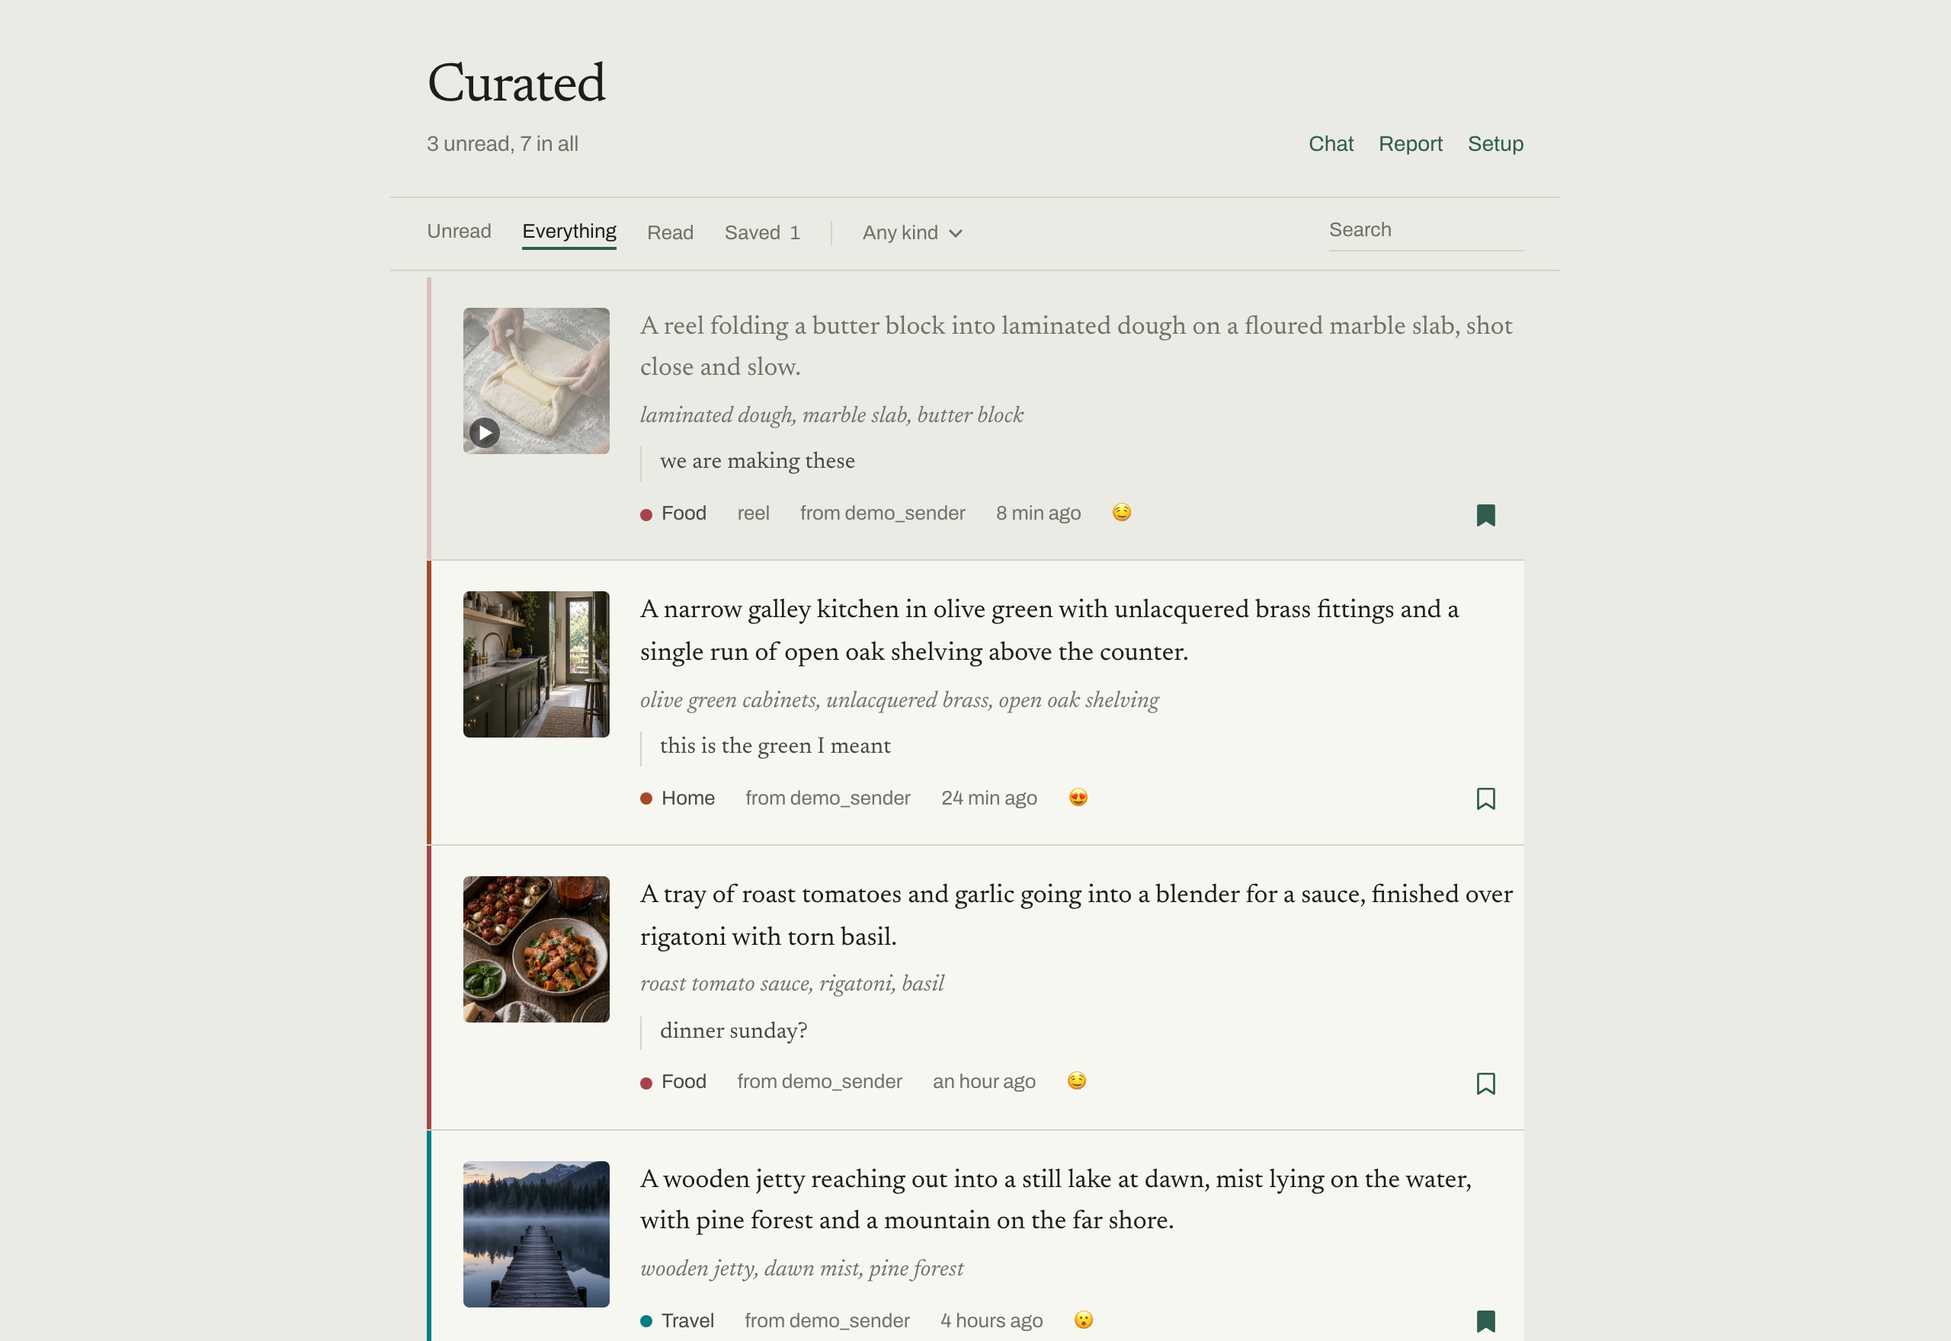
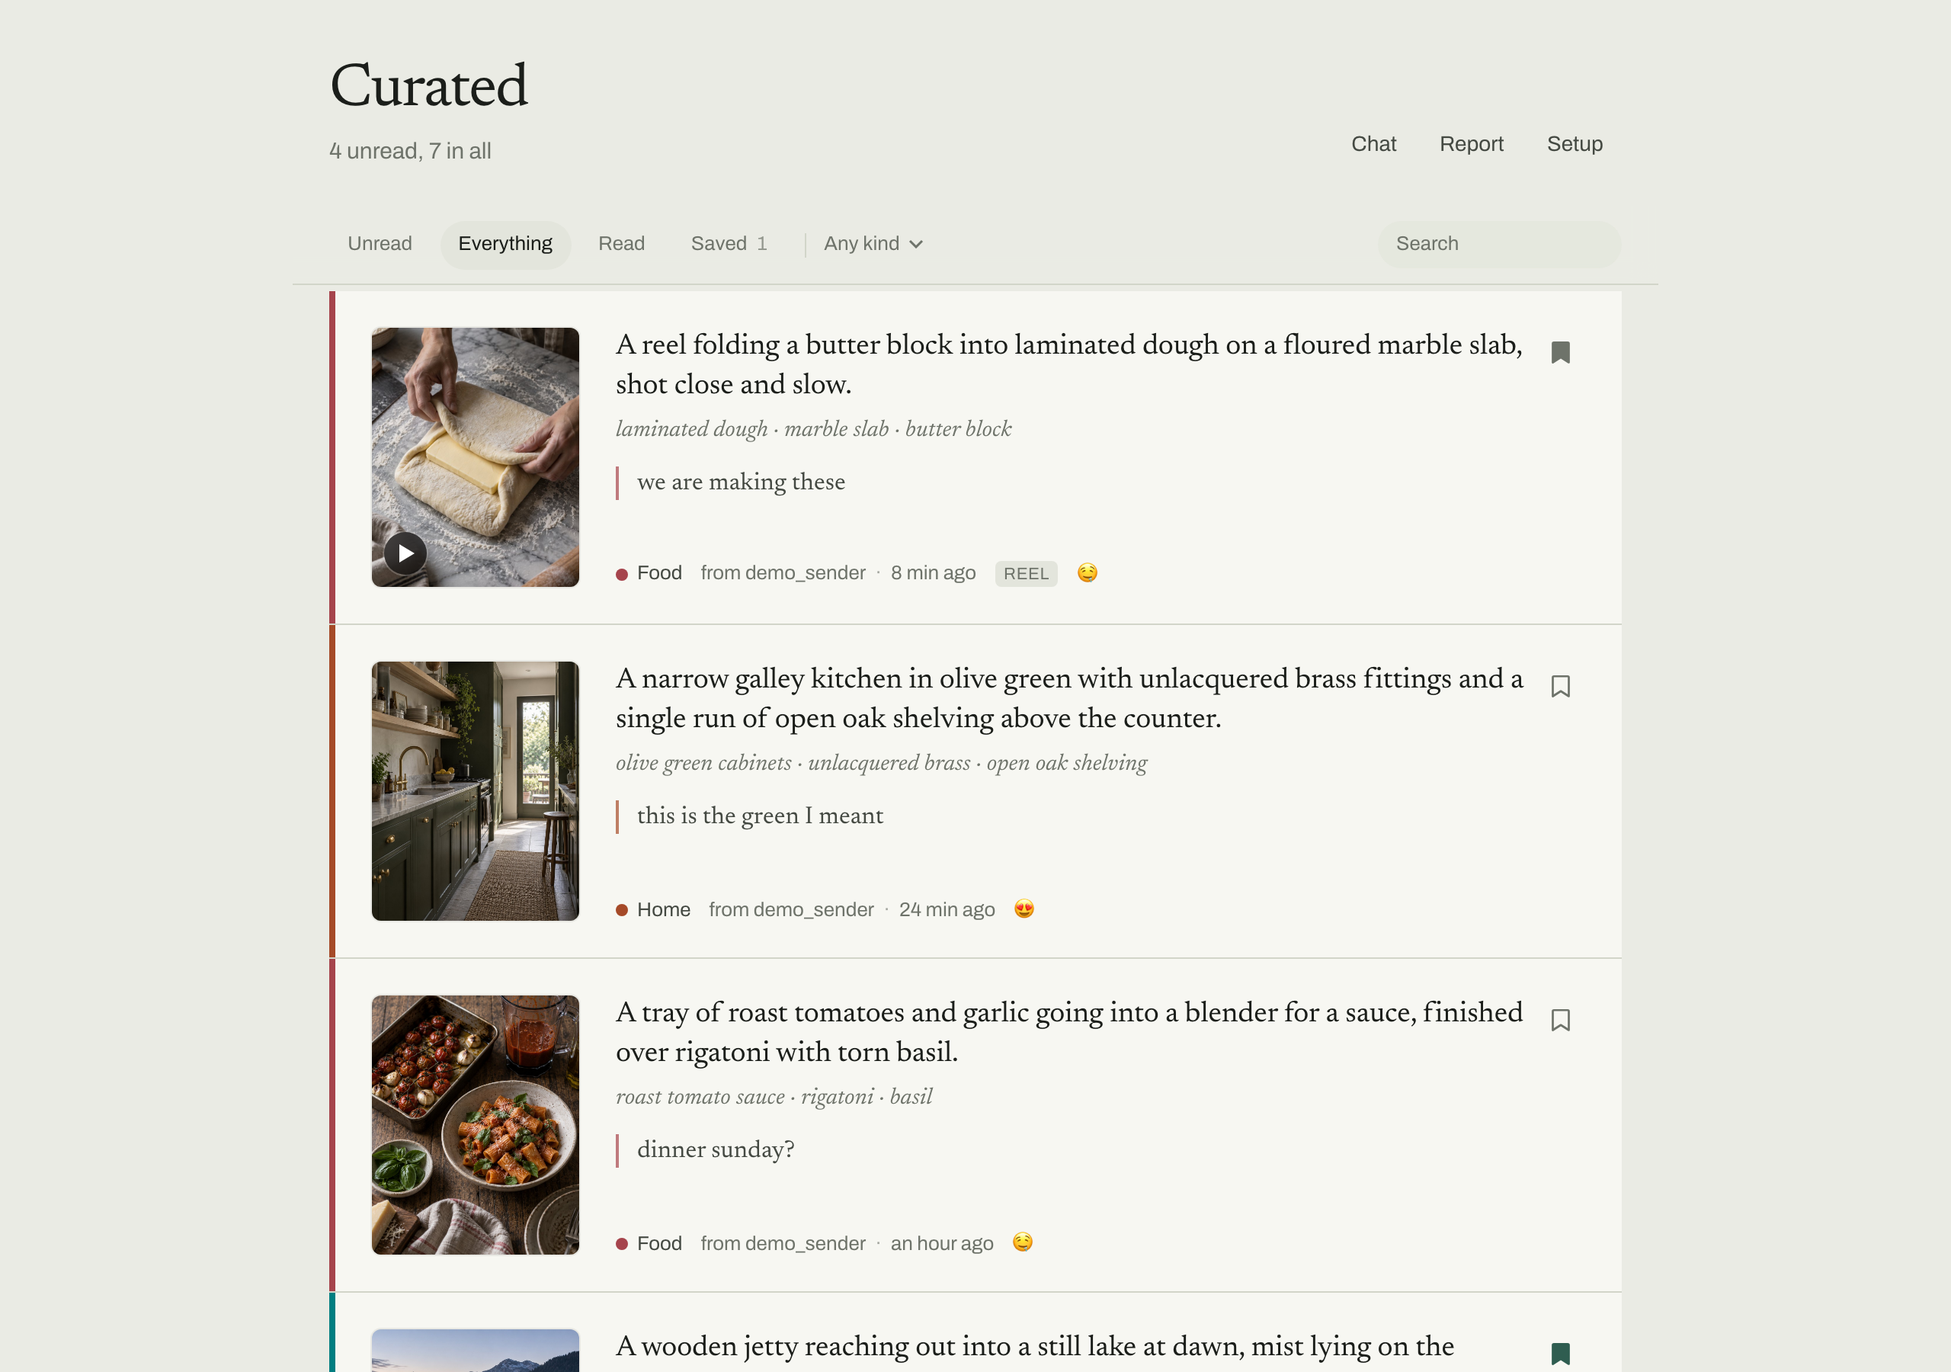
Give the pile a proper shape on both screens
A product about pictures showed them at 96px beside a wall of same-weight
text, in a column narrower than the pictures deserved. Now:

On a desktop the picture is the 4:5 portrait Instagram delivered, at
136px, beside a real hierarchy: the description as a 19px headline, the
things it names as a quieter italic line, the sender's words as a quote
whose rule takes the category's colour so it and the spine read as one,
and the facts on a single line at the foot aligned to the picture's
bottom edge. Saving is a quiet corner of the row. The column widened to
make room for all of that.

On a phone there was no room beside anything: a 17px serif in a 200px
column wrapped a two-sentence description to six lines and the foot to
three. So the row becomes a card - the picture full width on top, cropped
4:3, and the words underneath at full width, where the same description
is three lines. Saving sits on the picture's top corner in a dark pill,
where every photo app puts it, and the foot fits on one line.

The filter bar says which view you are in with a soft pill rather than an
underline, and the search is a field rather than a line that vanished on
a phone. Read still recedes, at 70% rather than 60%, because a full-width
picture at 60% read as still loading.

README screenshots regenerated to match.

🤖 Generated with [Claude Code](https://claude.com/claude-code)

diff --git a/src/components/PostRow.tsx b/src/components/PostRow.tsx
@@ -14,6 +14,21 @@ type Props = {
   onPreview: (post: PostView) => void;
 };
 
+/**
+ * One post in the pile.
+ *
+ * The picture is the point, so it is shown at a size you can actually see
+ * rather than as a thumbnail tucked beside the text. On a wide screen that is
+ * the 4:5 portrait Instagram gave it, beside the words; on a phone there is no
+ * room beside anything, so it becomes the top of a card and the words get the
+ * full width underneath - a description is then two lines, not six.
+ *
+ * The words are a hierarchy rather than a stack: the description is the
+ * headline, the things it names are a quieter line under it, the sender's own
+ * words are a quote carrying the category's colour, and the facts sit on one
+ * line at the foot. Saving lives in a corner - of the picture on a phone,
+ * of the row on a desktop - so the foot never has to wrap around it.
+ */
 export default function PostRow({
   post,
   describing = true,
@@ -24,7 +39,6 @@ export default function PostRow({
 
   const hue = isCategory(post.category) ? CATEGORY_HUE[post.category] : 220;
   const read = post.viewed;
-  // A reel gets a play badge on its thumbnail; both it and the summary open the post.
   const isVideo = post.mediaType === "reel" || post.mediaType === "tv";
 
   const run = async (kind: "save", action: () => Promise<void>) => {
@@ -36,103 +50,130 @@ export default function PostRow({
     }
   };
 
+  const headline = post.summary ?? post.caption?.trim() ?? "";
+  const label = `${isVideo ? "Watch" : "Look at"} this post: ${headline || post.shortcode}`;
+
   return (
     <article
       style={{ ["--hue" as string]: hue }}
-      className={`group relative flex gap-4 border-b border-line py-5 pl-5 pr-1 transition-colors duration-500 sm:gap-5 sm:pl-6 ${
+      className={`group relative flex flex-col gap-3.5 border-b border-line py-5 pl-5 pr-4 transition-colors duration-500 sm:flex-row sm:gap-6 sm:py-6 sm:pl-7 sm:pr-6 ${
         read ? "bg-transparent" : "bg-surface"
       }`}
     >
       <span
         aria-hidden
-        className={`spine absolute top-0 bottom-0 left-0 w-[3px] transition-opacity duration-500 ${
+        className={`spine absolute top-0 bottom-0 left-0 w-1 transition-opacity duration-500 ${
           read ? "opacity-25" : "opacity-100"
         }`}
       />
 
-      <Thumbnail post={post} read={read} isVideo={isVideo} onPreview={onPreview} />
+      <Thumbnail post={post} read={read} isVideo={isVideo} label={label} onPreview={onPreview} />
 
-      <div className="min-w-0 flex-1">
-        {post.summary ? (
-          <button
-            type="button"
-            onClick={() => onPreview(post)}
-            className={`block max-w-[62ch] text-left font-serif text-[17px] leading-relaxed hover:underline hover:decoration-line hover:underline-offset-4 ${
-              read ? "text-muted" : "text-ink"
-            }`}
-          >
-            {post.summary}
-          </button>
-        ) : (
-          // Nothing written about it yet, so the post's own caption stands in -
-          // clamped rather than cut mid-sentence, and in the caption's voice so
-          // it does not read as something we wrote.
-          <button
-            type="button"
-            onClick={() => onPreview(post)}
-            className={`line-clamp-4 max-w-[62ch] text-left font-serif text-[16px] leading-relaxed hover:underline hover:decoration-line hover:underline-offset-4 ${
-              read ? "text-muted" : "text-ink-soft"
-            }`}
-          >
-            {post.caption?.trim() || placeholderFor(post)}
-          </button>
-        )}
+      {/* A column as tall as the picture, so the facts at the foot line up
+          with its bottom edge instead of floating wherever the text ends. */}
+      <div className="flex min-w-0 flex-1 flex-col">
+        <div className="sm:pr-10">
+          {post.summary ? (
+            <button
+              type="button"
+              onClick={() => onPreview(post)}
+              className={`block max-w-[56ch] text-left font-serif text-[17px] leading-snug tracking-[-0.005em] hover:underline hover:decoration-line hover:underline-offset-4 sm:text-[19px] ${
+                read ? "text-muted" : "text-ink"
+              }`}
+            >
+              {post.summary}
+            </button>
+          ) : (
+            // Nothing written about it yet, so the post's own caption stands in -
+            // clamped rather than cut mid-sentence, and in the caption's voice so
+            // it does not read as something we wrote.
+            <button
+              type="button"
+              onClick={() => onPreview(post)}
+              className={`line-clamp-3 max-w-[56ch] text-left font-serif text-[16px] leading-snug hover:underline hover:decoration-line hover:underline-offset-4 sm:text-[17px] ${
+                read ? "text-muted" : "text-ink-soft"
+              }`}
+            >
+              {post.caption?.trim() || placeholderFor(post)}
+            </button>
+          )}
 
-        {post.items.length > 0 && (
-          <p className="mt-1.5 max-w-[62ch] font-serif text-[15px] italic text-muted">
-            {post.items.join(", ")}
-          </p>
-        )}
+          {post.items.length > 0 && (
+            <p className="mt-1.5 max-w-[56ch] font-serif text-[14px] italic leading-snug text-muted sm:text-[15px]">
+              {post.items.join(" · ")}
+            </p>
+          )}
 
-        {post.messageText && (
-          <p className="mt-2 max-w-[58ch] border-l border-line pl-3 font-serif text-[15px] text-ink-soft">
-            {post.messageText}
-          </p>
-        )}
+          {post.messageText && (
+            <p className="quote mt-3 max-w-[52ch] border-l-2 pl-3 font-serif text-[15px] leading-snug text-ink-soft sm:text-[16px]">
+              {post.messageText}
+            </p>
+          )}
+        </div>
 
-        <div className="mt-3 flex flex-wrap items-center gap-x-5 gap-y-2 text-[13px]">
+        <div className="mt-auto flex flex-wrap items-center gap-x-2.5 gap-y-1.5 pt-3 text-[13px] leading-none sm:gap-x-3 sm:pt-4">
           {describing && (
             <span className="flex items-center gap-1.5 text-ink-soft">
               <span aria-hidden className="dot h-2 w-2 rounded-full" />
               {post.category ?? statusLabel(post)}
             </span>
           )}
-          {post.mediaType === "reel" && <span className="text-muted">reel</span>}
           <span className="text-muted">
-            {post.senderUsername ? `from ${post.senderUsername}` : "shared with you"}
+            {post.senderUsername ? (
+              <>
+                <span className="hidden sm:inline">from </span>
+                {post.senderUsername}
+              </>
+            ) : (
+              "shared with you"
+            )}
+            <span aria-hidden className="mx-1.5 opacity-60">·</span>
+            <time>{relativeTime(post.sharedAt)}</time>
           </span>
-          <time className="text-muted">{relativeTime(post.sharedAt)}</time>
+          {post.mediaType === "reel" && (
+            <span className="rounded-sm bg-sunk px-1.5 py-[3px] text-[11px] uppercase tracking-wide text-muted">
+              reel
+            </span>
+          )}
           {post.reactedAt && (
-            <span title={`Reacted ${relativeTime(post.reactedAt)}`}>{post.reactionEmoji}</span>
+            <span className="text-[14px]" title={`Reacted ${relativeTime(post.reactedAt)}`}>
+              {post.reactionEmoji}
+            </span>
           )}
 
-          <div className="flex items-center pr-3 sm:ml-auto">
-            <button
-              type="button"
-              onClick={() => run("save", () => onToggleSaved(post.id, !post.saved))}
-              disabled={busy !== null}
-              aria-label={post.saved ? "Remove from saved" : "Save"}
-              aria-pressed={post.saved}
-              title={post.saved ? "Saved" : "Save"}
-              className="group flex items-center text-accent disabled:opacity-50"
-            >
-              <BookmarkIcon filled={post.saved} />
-            </button>
-          </div>
         </div>
 
         {post.reactionError && (
-          <p className="mt-2 max-w-[62ch] text-[13px] text-danger">
+          <p className="mt-2 max-w-[56ch] text-[13px] text-danger">
             Reaction did not send: {post.reactionError}
           </p>
         )}
 
         {post.analysisStatus === "error" && post.analysisError && (
-          <p className="mt-2 max-w-[62ch] text-[13px] text-danger">
+          <p className="mt-2 max-w-[56ch] text-[13px] text-danger">
             Could not describe this one: {post.analysisError}
           </p>
         )}
       </div>
+
+      {/* Saving, in a corner. On a phone that corner is the top of the
+          picture, where every photo app puts it, on a dark pill so it reads
+          over anything. On a desktop it is the corner of the row, quiet. */}
+      <button
+        type="button"
+        onClick={() => run("save", () => onToggleSaved(post.id, !post.saved))}
+        disabled={busy !== null}
+        aria-label={post.saved ? "Remove from saved" : "Save"}
+        aria-pressed={post.saved}
+        title={post.saved ? "Saved" : "Save"}
+        className={`absolute top-7 right-6 flex h-9 w-9 items-center justify-center rounded-full bg-black/45 text-white ring-1 ring-white/20 backdrop-blur-sm transition-colors sm:top-6 sm:right-6 sm:h-8 sm:w-8 sm:bg-transparent sm:ring-0 sm:backdrop-blur-none ${
+          post.saved
+            ? "sm:text-accent"
+            : "sm:text-muted sm:hover:bg-sunk sm:hover:text-accent"
+        } disabled:opacity-50`}
+      >
+        <BookmarkIcon filled={post.saved} />
+      </button>
     </article>
   );
 }
@@ -141,36 +182,40 @@ function Thumbnail({
   post,
   read,
   isVideo,
+  label,
   onPreview,
 }: {
   post: PostView;
   read: boolean;
   isVideo: boolean;
+  label: string;
   onPreview: (post: PostView) => void;
 }) {
+  const frame =
+    "aspect-[4/3] w-full overflow-hidden rounded-lg bg-sunk ring-1 ring-black/[0.06] sm:aspect-[4/5] sm:w-[136px] sm:rounded-md dark:ring-white/[0.06]";
+
   const image = post.thumbnail ? (
     // eslint-disable-next-line @next/next/no-img-element
     <img
       src={post.thumbnail}
       alt=""
-      width={96}
-      height={96}
-      className={`h-20 w-20 rounded-sm object-cover transition-opacity duration-500 sm:h-24 sm:w-24 ${
-        read ? "opacity-50" : "opacity-100"
+      width={136}
+      height={170}
+      loading="lazy"
+      className={`h-full w-full object-cover transition-[opacity,transform] duration-500 group-hover:scale-[1.02] ${
+        read ? "opacity-70" : "opacity-100"
       }`}
     />
   ) : (
-    <div className="flex h-20 w-20 items-center justify-center rounded-sm bg-sunk text-xs text-muted sm:h-24 sm:w-24">
-      no image
-    </div>
+    <div className="flex h-full w-full items-center justify-center text-xs text-muted">no image</div>
   );
 
   const badge = isVideo && (
     <span
       aria-hidden
-      className="pointer-events-none absolute bottom-1 left-1 flex h-5 w-5 items-center justify-center rounded-full bg-black/55"
+      className="pointer-events-none absolute bottom-2 left-2 flex h-7 w-7 items-center justify-center rounded-full bg-black/60 ring-1 ring-white/20 backdrop-blur-sm"
     >
-      <svg viewBox="0 0 10 12" className="ml-[1px] h-2.5 w-2.5 fill-white">
+      <svg viewBox="0 0 10 12" className="ml-[1px] h-3 w-3 fill-white">
         <path d="M0 0l10 6-10 6z" />
       </svg>
     </span>
@@ -180,8 +225,8 @@ function Thumbnail({
     <button
       type="button"
       onClick={() => onPreview(post)}
-      aria-label={`${isVideo ? "Watch" : "Look at"} this post: ${post.summary ?? post.shortcode}`}
-      className="relative shrink-0 cursor-zoom-in self-start"
+      aria-label={label}
+      className={`relative shrink-0 cursor-zoom-in self-start ${frame}`}
     >
       {image}
       {badge}

diff --git a/src/components/Feed.tsx b/src/components/Feed.tsx
@@ -288,14 +288,14 @@ export default function Feed() {
   }, [data?.categories]);
 
   return (
-    <div className="mx-auto max-w-3xl px-4 pb-24 sm:px-6">
+    <div className="mx-auto max-w-4xl px-4 pb-24 sm:px-6">
       {/* Nothing but the dark until the post is up. The list is behind it
           either way; showing it first only advertises the wait. */}
       {launching && !preview && <div className="fixed inset-0 z-50 bg-black md:hidden" />}
-      <header className="flex flex-wrap items-end justify-between gap-4 pt-10 pb-6">
+      <header className="flex flex-wrap items-end justify-between gap-4 pt-8 pb-5 sm:pt-10 sm:pb-6">
         <div>
-          <h1 className="font-serif text-4xl leading-none tracking-tight">Curated</h1>
-          <p className="mt-2 text-[14px] text-muted">
+          <h1 className="font-serif text-[34px] leading-none tracking-tight sm:text-[40px]">Curated</h1>
+          <p className="mt-2 text-[14px] text-muted sm:text-[15px]">
             {headline(data, session)}
             {watcher?.listening && (
               <span className="ml-2 inline-flex items-center gap-1.5 text-accent">
@@ -306,17 +306,21 @@ export default function Feed() {
           </p>
         </div>
 
-        <div className="flex items-center gap-4 text-[14px]">
-          <Link href="/chat" className="text-accent underline-offset-4 hover:underline">
-            Chat
-          </Link>
-          <Link href="/report" className="text-accent underline-offset-4 hover:underline">
-            Report
-          </Link>
-          <Link href="/setup" className="text-accent underline-offset-4 hover:underline">
-            Setup
-          </Link>
-        </div>
+        <nav className="flex items-center gap-1 text-[14px]" aria-label="Pages">
+          {[
+            ["/chat", "Chat"],
+            ["/report", "Report"],
+            ["/setup", "Setup"],
+          ].map(([href, label]) => (
+            <Link
+              key={href}
+              href={href}
+              className="rounded-full px-3 py-1.5 text-ink-soft transition-colors hover:bg-sunk hover:text-ink"
+            >
+              {label}
+            </Link>
+          ))}
+        </nav>
       </header>
 
       {sync && (sync.running || sync.phase === "error" || sync.postsAdded > 0) && (
@@ -349,27 +353,28 @@ export default function Feed() {
         </p>
       )}
 
-      <div className="sticky top-0 z-10 -mx-4 mb-1 border-y border-line bg-paper/95 px-4 py-3 backdrop-blur sm:-mx-6 sm:px-6">
-        <div className="flex flex-wrap items-center gap-x-5 gap-y-2 text-[13px]">
+      <div className="sticky top-0 z-10 -mx-4 mb-1 border-b border-line bg-paper/92 px-4 py-2.5 backdrop-blur sm:-mx-6 sm:px-6">
+        <div className="flex flex-wrap items-center gap-x-1 gap-y-2 text-[13px] sm:gap-x-1.5">
           {(["unread", "all", "read", "saved"] as StateFilter[]).map((value) => (
             <button
               key={value}
               type="button"
               onClick={() => setStateFilter(value)}
-              className={
+              aria-pressed={stateFilter === value}
+              className={`rounded-full px-3 py-1.5 transition-colors ${
                 stateFilter === value
-                  ? "text-ink underline decoration-accent decoration-2 underline-offset-[6px]"
-                  : "text-muted hover:text-ink"
-              }
+                  ? "bg-sunk text-ink"
+                  : "text-muted hover:bg-sunk/60 hover:text-ink"
+              }`}
             >
               {LABELS[value]}
               {value === "saved" && (data?.saved ?? 0) > 0 && (
-                <span className="ml-1.5 text-muted">{data?.saved}</span>
+                <span className="ml-1.5 tabular-nums opacity-70">{data?.saved}</span>
               )}
             </button>
           ))}
 
-          <span aria-hidden className="h-4 w-px bg-line" />
+          <span aria-hidden className="mx-1.5 hidden h-4 w-px bg-line sm:block" />
 
           {describing && (
             <CategoryMenu value={category} categories={categories} onChange={setCategory} />
@@ -382,7 +387,7 @@ export default function Feed() {
               value={search}
               onChange={(event) => setSearch(event.target.value)}
               placeholder="Search"
-              className="w-32 border-b border-line bg-transparent pb-0.5 text-[13px] placeholder:text-muted focus:border-accent focus:outline-none"
+              className="w-28 rounded-full bg-sunk/70 px-3 py-1.5 text-[13px] placeholder:text-muted focus:bg-sunk focus:outline-none focus:ring-2 focus:ring-accent/60 sm:w-40"
             />
           </label>
         </div>

diff --git a/src/app/globals.css b/src/app/globals.css
@@ -88,6 +88,12 @@ body {
   background: oklch(var(--spine-lightness) var(--spine-chroma) var(--hue, 220));
 }
 
+/* The sender's own words, in the category's colour, so the quote and the
+   spine read as one thing. */
+.quote {
+  border-color: oklch(var(--spine-lightness) var(--spine-chroma) var(--hue, 220) / 0.7);
+}
+
 :focus-visible {
   outline: 2px solid var(--accent);
   outline-offset: 2px;
